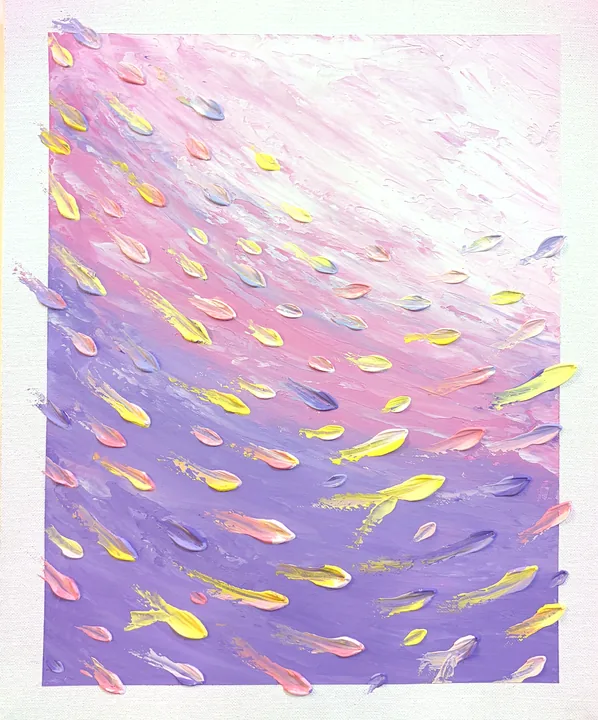
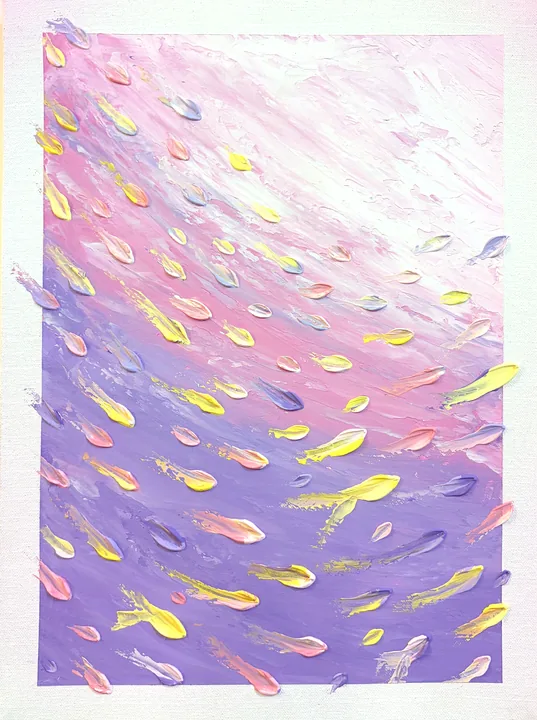
Lilac Breeze is 30x40 cm
Re-refined its front to the 3:4 canvas and rebuilt the room view at true scale.

diff --git a/data/artworks.js b/data/artworks.js
@@ -887,7 +887,7 @@ window.ARTWORKS = [
     year: 2026,
     concept: 'A painted ground that fades from soft pink at the top to lilac at the base, with a border of bare white canvas around it. Dozens of small petals in lemon, pink and lilac are pressed and dragged with the tip of the knife, all drifting the same way across the canvas.',
     holds: 'The hour when a warm breeze carries petals across the garden and nothing needs doing.',
-    size: { w: 25, h: 30 },
+    size: { w: 30, h: 40 },
     depth: '',
     medium: 'Acrylic colour mixed into texture paste, over a painted acrylic ground, on canvas',
     shape: 'portrait',
@@ -903,7 +903,7 @@ window.ARTWORKS = [
     status: 'available',
     featured: true,
     images: {
-      front: { src: '/images/art/lilac-breeze/front.webp', w: 1329, h: 1600, alt: 'Lilac Breeze: lemon, pink and lilac petals of texture paste drifting across a pink to lilac ground' },
+      front: { src: '/images/art/lilac-breeze/front.webp', w: 1193, h: 1600, alt: 'Lilac Breeze: lemon, pink and lilac petals of texture paste drifting across a pink to lilac ground' },
       room:  { src: '/images/art/lilac-breeze/room.webp',  w: 1600, h: 1200, alt: 'Lilac Breeze on a cream wall above a light oak sideboard' }
     }
   },
